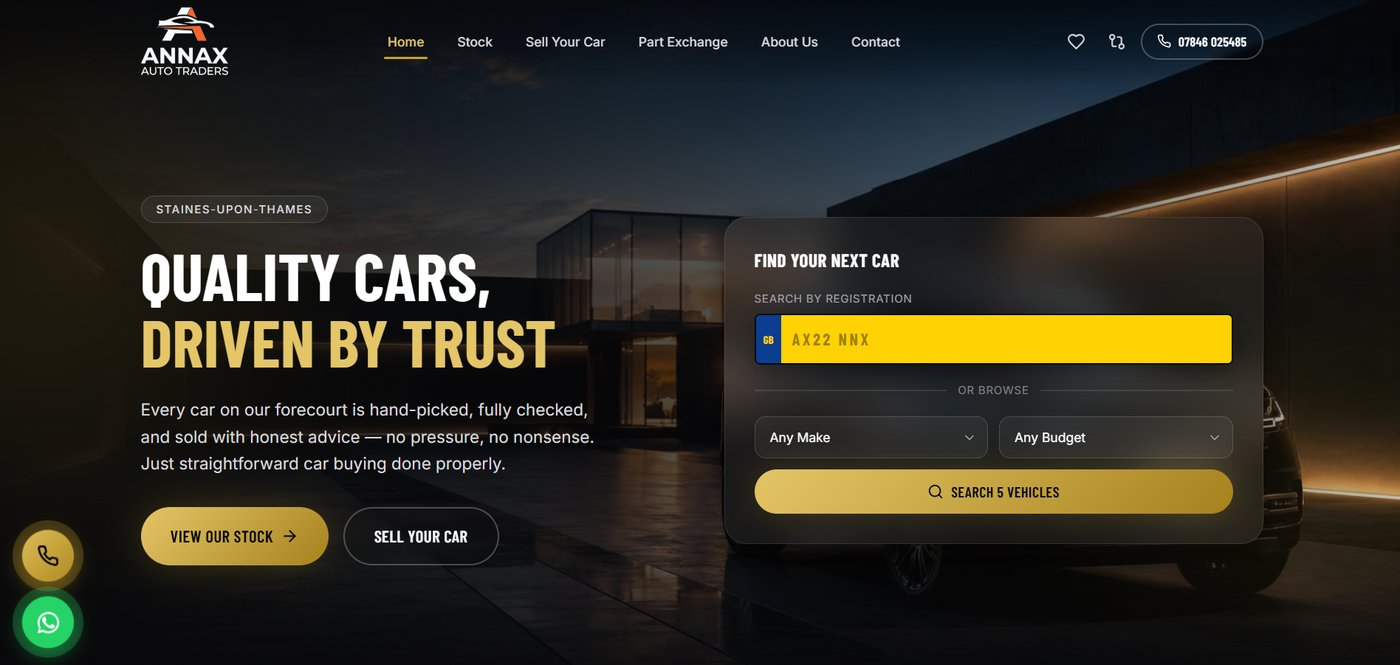
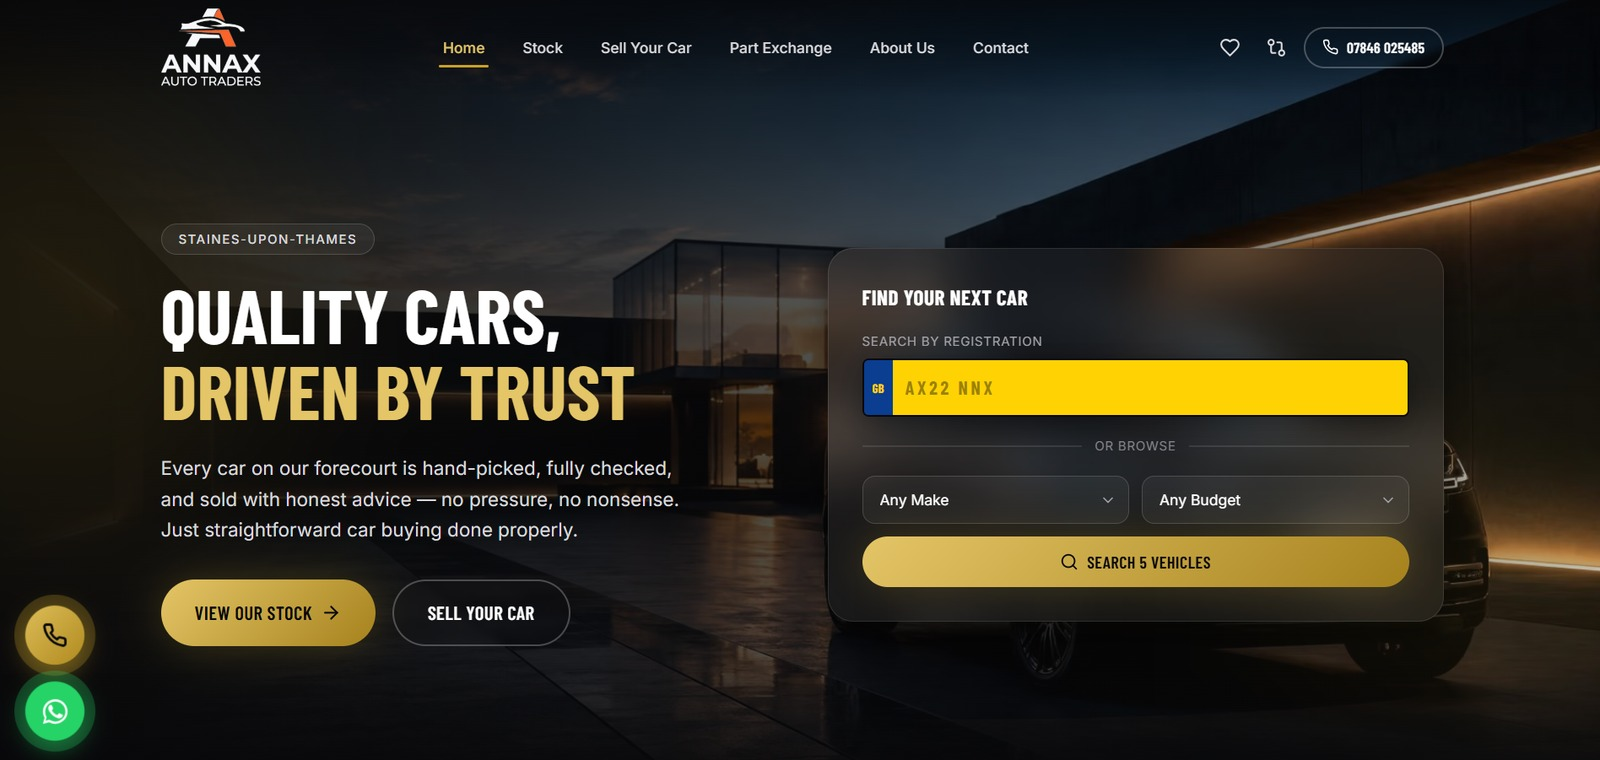
Files Upload

diff --git a/app/services/[slug]/page.tsx b/app/services/[slug]/page.tsx
@@ -5,7 +5,6 @@ import Link from "next/link";
 import Button from "@/components/Button";
 import Reveal from "@/components/Reveal";
 import { services } from "@/lib/services";
-import { work, workGradientClasses } from "@/lib/work";
 
 export function generateStaticParams() {
   return services.map((s) => ({ slug: s.slug }));
@@ -36,7 +35,6 @@ export default async function ServiceDetailPage({
 
   const service = services[index];
   const next = services[(index + 1) % services.length];
-  const relatedWork = work.filter((w) => service.relatedWork.includes(w.slug));
 
   return (
     <section className="pt-40 pb-32">
@@ -61,6 +59,24 @@ export default async function ServiceDetailPage({
         </Reveal>
 
         <Reveal delay={100}>
+          <div className="relative mt-16 max-w-3xl">
+            <div
+              className="absolute -inset-6 sm:-inset-10 bg-gradient-to-br from-aurora-violet/25 via-aurora-teal/10 to-aurora-rose/25 blur-3xl rounded-[3rem]"
+              aria-hidden
+            />
+            <div className="relative rounded-2xl overflow-hidden border border-line shadow-2xl">
+              <Image
+                src={service.image}
+                alt={service.title}
+                width={1400}
+                height={1400}
+                className="w-full h-auto"
+              />
+            </div>
+          </div>
+        </Reveal>
+
+        <Reveal delay={140}>
           <div className="mt-20 grid sm:grid-cols-[200px_1fr] gap-8 sm:gap-16 border-t border-line pt-12">
             <div className="kicker">Process</div>
             <p className="text-ink-muted max-w-xl leading-relaxed">
@@ -72,7 +88,7 @@ export default async function ServiceDetailPage({
           </div>
         </Reveal>
 
-        <Reveal delay={160}>
+        <Reveal delay={200}>
           <div className="mt-12 grid sm:grid-cols-[200px_1fr] gap-8 sm:gap-16 border-t border-line pt-12">
             <div className="kicker">
               What we provide
@@ -87,51 +103,6 @@ export default async function ServiceDetailPage({
                 </li>
               ))}
             </ul>
-          </div>
-        </Reveal>
-
-        <Reveal delay={220}>
-          <div className="mt-12 grid sm:grid-cols-[200px_1fr] gap-8 sm:gap-16 border-t border-line pt-12">
-            <div className="kicker">
-              Relevant work
-            </div>
-            {relatedWork.length > 0 ? (
-              <div className="grid sm:grid-cols-2 gap-6">
-                {relatedWork.map((w) => (
-                  <Link key={w.slug} href={`/work/${w.slug}`} className="group">
-                    {w.screenshot ? (
-                      <div className="relative h-32 rounded-xl overflow-hidden border border-line">
-                        <Image
-                          src={w.screenshot}
-                          alt={w.title}
-                          fill
-                          className="object-cover object-top"
-                        />
-                      </div>
-                    ) : (
-                      <div
-                        className={`h-32 rounded-xl ${workGradientClasses[w.gradient]}`}
-                      />
-                    )}
-                    <div className="mt-3 font-display text-base group-hover:text-aurora-violet transition-colors">
-                      {w.title}
-                    </div>
-                  </Link>
-                ))}
-              </div>
-            ) : (
-              <p className="text-ink-muted">
-                We don&apos;t have a published case study for this service
-                yet.{" "}
-                <Link
-                  href="/work"
-                  className="text-ink hover:text-aurora-violet transition-colors"
-                >
-                  See selected work
-                </Link>
-                .
-              </p>
-            )}
           </div>
         </Reveal>
 

diff --git a/app/work/[slug]/page.tsx b/app/work/[slug]/page.tsx
@@ -58,6 +58,16 @@ export default async function WorkDetailPage({
           <p className="mt-6 text-lg text-ink-muted max-w-xl leading-relaxed">
             {project.summary}
           </p>
+          {project.liveUrl && (
+            <a
+              href={`https://${project.liveUrl}`}
+              target="_blank"
+              rel="noopener noreferrer"
+              className="mt-5 inline-flex items-center gap-2 text-sm font-semibold text-aurora-teal hover:text-ink transition-colors"
+            >
+              Visit live site ↗
+            </a>
+          )}
         </Reveal>
 
         <Reveal delay={100}>
@@ -66,6 +76,7 @@ export default async function WorkDetailPage({
               src={project.screenshot}
               alt={project.title}
               url={project.liveUrl}
+              href={project.liveUrl ? `https://${project.liveUrl}` : undefined}
               className="mt-16"
             />
           ) : (
@@ -86,8 +97,44 @@ export default async function WorkDetailPage({
           </div>
         </Reveal>
 
+        {project.techStack && project.techStack.length > 0 && (
+          <Reveal delay={190}>
+            <div className="mt-12 grid sm:grid-cols-[200px_1fr] gap-8 sm:gap-16 border-t border-line pt-12">
+              <div className="kicker">Built with</div>
+              <div className="flex flex-wrap gap-3">
+                {project.techStack.map((tech) => (
+                  <span
+                    key={tech}
+                    className="text-sm font-semibold px-4 py-2 rounded-full border border-line"
+                  >
+                    {tech}
+                  </span>
+                ))}
+              </div>
+            </div>
+          </Reveal>
+        )}
+
+        {project.features && project.features.length > 0 && (
+          <Reveal delay={210}>
+            <div className="mt-12 grid sm:grid-cols-[200px_1fr] gap-8 sm:gap-16 border-t border-line pt-12">
+              <div className="kicker">Key features</div>
+              <ul className="space-y-4">
+                {project.features.map((feature) => (
+                  <li
+                    key={feature}
+                    className="text-ink-muted leading-relaxed pl-5 relative before:content-[''] before:absolute before:left-0 before:top-[0.65em] before:w-2 before:h-2 before:rounded-full before:bg-aurora-violet/70"
+                  >
+                    {feature}
+                  </li>
+                ))}
+              </ul>
+            </div>
+          </Reveal>
+        )}
+
         {relatedServices.length > 0 && (
-          <Reveal delay={220}>
+          <Reveal delay={230}>
             <div className="mt-12 grid sm:grid-cols-[200px_1fr] gap-8 sm:gap-16 border-t border-line pt-12">
               <div className="kicker">
                 Related services

diff --git a/components/BrowserFrame.tsx b/components/BrowserFrame.tsx
@@ -4,16 +4,18 @@ export default function BrowserFrame({
   src,
   alt,
   url,
+  href,
   className = "",
 }: {
   src: string;
   alt: string;
   url?: string;
+  href?: string;
   className?: string;
 }) {
-  return (
+  const frame = (
     <div
-      className={`rounded-2xl overflow-hidden border border-line bg-surface ${className}`}
+      className={`group/frame rounded-2xl overflow-hidden border border-line bg-surface transition-colors ${href ? "hover:border-aurora-violet/50" : ""} ${className}`}
     >
       <div className="flex items-center gap-2 px-4 py-3 border-b border-line bg-void/60">
         <span className="w-2.5 h-2.5 rounded-full bg-ink-muted/30" />
@@ -27,7 +29,24 @@ export default function BrowserFrame({
       </div>
       <div className="relative w-full aspect-[16/10]">
         <Image src={src} alt={alt} fill className="object-cover object-top" />
+        {href && (
+          <div className="absolute inset-0 bg-void/0 group-hover/frame:bg-void/20 transition-colors flex items-center justify-center">
+            <span className="opacity-0 group-hover/frame:opacity-100 transition-opacity text-sm font-semibold text-white bg-void/70 backdrop-blur-sm px-4 py-2 rounded-full">
+              Visit live site ↗
+            </span>
+          </div>
+        )}
       </div>
     </div>
   );
+
+  if (href) {
+    return (
+      <a href={href} target="_blank" rel="noopener noreferrer">
+        {frame}
+      </a>
+    );
+  }
+
+  return frame;
 }

diff --git a/lib/work.ts b/lib/work.ts
@@ -7,6 +7,8 @@ export type WorkItem = {
   gradient: "annax" | "emberleaf";
   screenshot?: string;
   liveUrl?: string;
+  techStack?: string[];
+  features?: string[];
 };
 
 export const workGradientClasses: Record<string, string> = {
@@ -26,6 +28,13 @@ export const work: WorkItem[] = [
     gradient: "annax",
     liveUrl: "annax-auto-traders.vercel.app",
     screenshot: "/annax-screenshot.jpg",
+    techStack: ["Next.js", "TypeScript", "Tailwind CSS", "Web3Forms"],
+    features: [
+      "Vehicle search by registration number",
+      "Filter stock by make and budget",
+      "Dedicated Sell Your Car and Part Exchange pages",
+      "Click-to-call and WhatsApp contact buttons",
+    ],
   },
   {
     slug: "ember-and-leaf",
@@ -38,5 +47,11 @@ export const work: WorkItem[] = [
     gradient: "emberleaf",
     liveUrl: "ember-and-leaf.vercel.app",
     screenshot: "/ember-leaf-screenshot.jpg",
+    techStack: ["Next.js", "TypeScript", "Tailwind CSS"],
+    features: [
+      "Menu and About pages",
+      "Location and opening hours on a dedicated Find Us page",
+      "Warm, editorial-style layout suited to a hospitality brand",
+    ],
   },
 ];

diff --git a/components/WorkRow.tsx b/components/WorkRow.tsx
@@ -10,7 +10,7 @@ export default function WorkRow({ item }: { item: WorkItem }) {
     >
       <span className="absolute -left-6 sm:-left-8 top-0 bottom-0 w-[3px] bg-gradient-to-b from-aurora-violet to-aurora-teal scale-y-0 group-hover:scale-y-100 origin-top transition-transform duration-300" />
       {item.screenshot ? (
-        <div className="relative w-full sm:w-28 h-28 shrink-0 rounded-xl overflow-hidden border border-line">
+        <div className="relative w-full sm:w-48 h-28 shrink-0 rounded-xl overflow-hidden border border-line">
           <Image
             src={item.screenshot}
             alt={item.title}
@@ -20,7 +20,7 @@ export default function WorkRow({ item }: { item: WorkItem }) {
         </div>
       ) : (
         <div
-          className={`w-full sm:w-28 h-28 shrink-0 rounded-xl ${workGradientClasses[item.gradient]}`}
+          className={`w-full sm:w-48 h-28 shrink-0 rounded-xl ${workGradientClasses[item.gradient]}`}
         />
       )}
       <div className="flex-1">

diff --git a/lib/services.ts b/lib/services.ts
@@ -6,6 +6,7 @@ export type Service = {
   bullets: string[];
   relatedWork: string[];
   icon: "code" | "brain" | "pen" | "gauge";
+  image: string;
 };
 
 export const services: Service[] = [
@@ -23,6 +24,7 @@ export const services: Service[] = [
     ],
     relatedWork: ["annax-auto-traders", "ember-and-leaf"],
     icon: "code",
+    image: "/service-web-design.jpg",
   },
   {
     slug: "ai-integration-automation",
@@ -38,6 +40,7 @@ export const services: Service[] = [
     ],
     relatedWork: [],
     icon: "brain",
+    image: "/service-ai-automation.jpg",
   },
   {
     slug: "ui-ux-digital-experiences",
@@ -53,6 +56,7 @@ export const services: Service[] = [
     ],
     relatedWork: [],
     icon: "pen",
+    image: "/service-ui-ux.jpg",
   },
   {
     slug: "optimization-support",
@@ -68,5 +72,6 @@ export const services: Service[] = [
     ],
     relatedWork: [],
     icon: "gauge",
+    image: "/service-optimization.jpg",
   },
 ];
